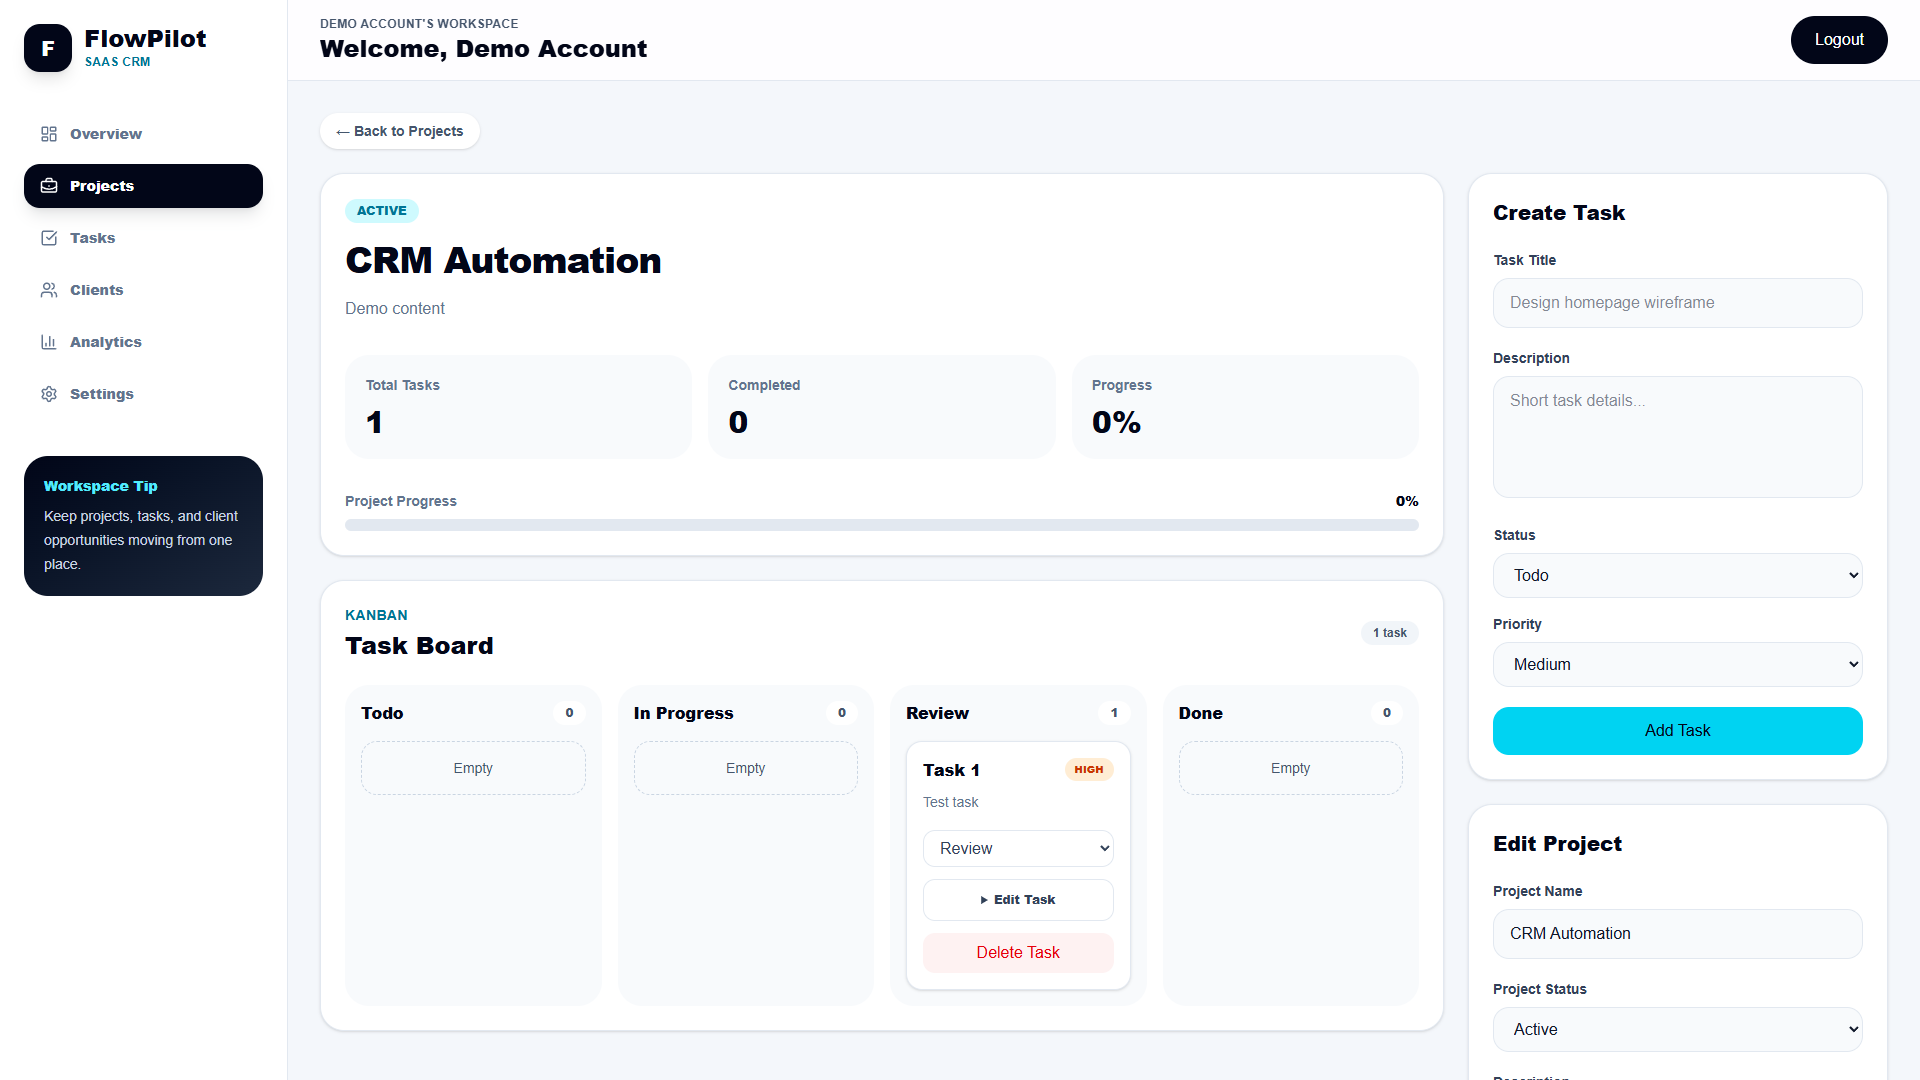
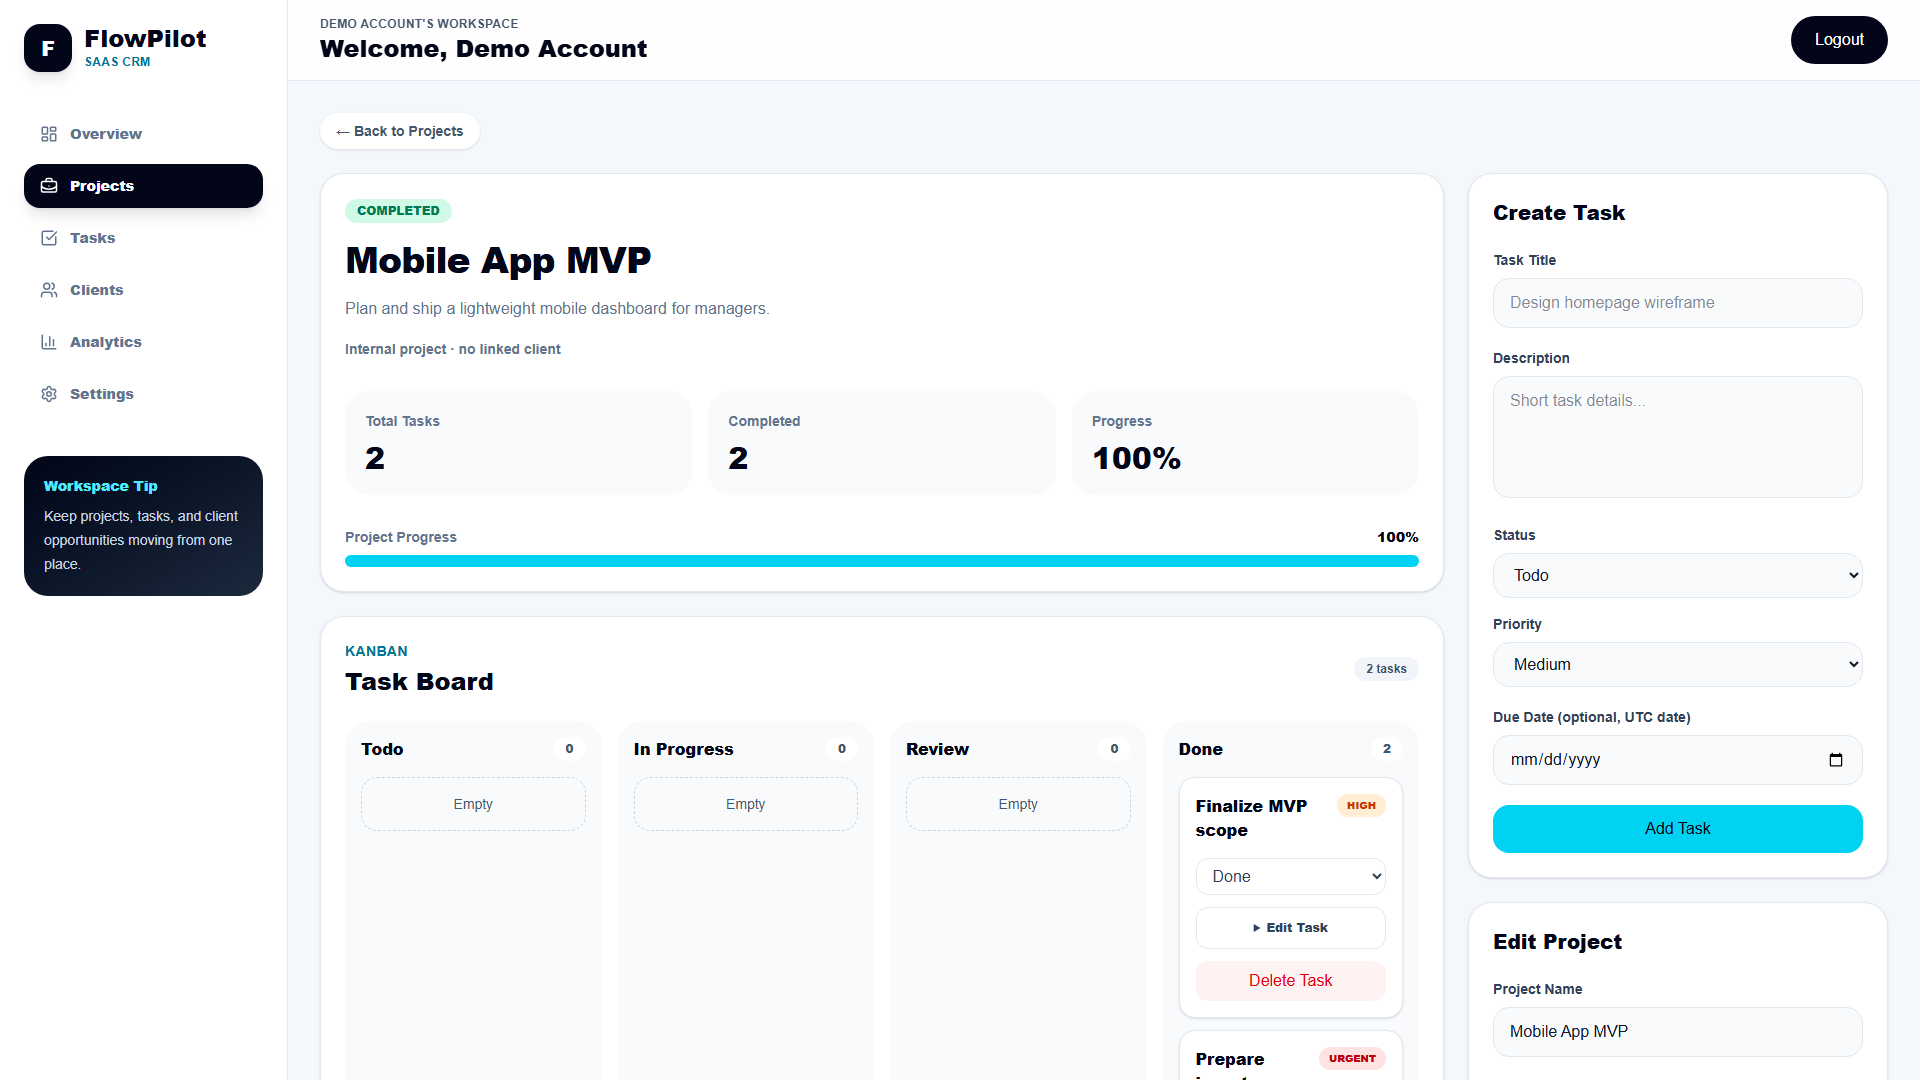
Refresh live release evidence

diff --git a/FIX_REPORT.md b/FIX_REPORT.md
@@ -6,23 +6,23 @@ This report separates implementation, testing, and deployment. `PASS` means the 
 
 | ID | Implemented? | Tested? | Deployed? | Files / commit | Actual evidence | Remaining blocker |
 |---|---|---|---|---|---|---|
-| F01 client-linked projects | Yes | PASS, scoped | Pending | `prisma/schema.prisma`, project/client pages and actions | Browser workflow created a client-linked project through Won conversion; project details displayed the client. Project create/edit selectors are populated only from the current workspace. Empty relation remains valid; client deletion unlinks projects before deleting client data. | Forged cross-workspace Server Action payload was source-reviewed and selector isolation was tested, but no external DAST/fuzzer certification. |
-| F02 Won deal to project | Yes | PASS, scoped | Pending | `DealConversion`, client actions/pages | Unique `clientId` and `projectId` conversion records plus a transaction provide durable idempotency. Workflow retained `$1,234.56`, created one linked project, and exposed the existing-project control afterward. | Concurrent production load test not run; MongoDB replica set is mandatory. |
-| F03 follow-up/due dates | Yes | PASS | Pending | schema, validators, client/project/task UI | Workflow created/reloaded a `2026-11-01` follow-up and a past due task, observed overdue, then observed completed-not-overdue. Unit check confirmed date-only storage at `00:00:00 UTC`; fields support blank clearing. | Email reminders are intentionally absent. Full global timezone matrix beyond UTC boundary logic is not a browser suite. |
-| F04 notes/activity | Yes | PASS, scoped | Pending | `ClientNote`, `ClientActivity`, client detail/actions | Unicode multiline note persisted with authenticated author; status and conversion events are server-generated and ordered by timestamp/id. Unique request/event keys and conditional status updates prevent ordinary retry duplicates. React escapes note text. | Forged-author payload is impossible in shipped form/action API but no external penetration test. |
-| F05 search/filters | Yes | PASS, scoped | Pending | client/project/task pages | Clients search name/company/email and filter status; projects search name and filter status/client/internal; tasks search title and filter project/status/priority/overdue. Workflow combined client search+Won filter and reset/no-results states are present. Inputs are bounded and every query carries workspace scope. | Performance tuning for very large workspaces is buyer-specific. |
-| F06 CSV export | Yes | PASS | Pending | `/api/export/[resource]`, `src/lib/csv.ts` | Authenticated filtered exports cover clients/projects/tasks, cap at 5,000, emit UTF-8 BOM, quote commas/quotes/newlines, and prefix formula-like values. Workflow verified Unicode and `=2+2` safety; second-workspace export excluded the first workspace. | Spreadsheet behavior can vary by vendor; no XLSX format is shipped. |
-| AUTH | Yes | PASS, scoped | Pending | auth configuration and isolation audit | Fresh sessions succeeded; anonymous protected-route access redirected to login; logout/protected-route behavior remains covered by the UI path. Password recovery is not advertised or shipped. | Artificial JWT expiry/time-travel was not tested. |
-| ISOLATION | Yes | PASS, scoped | Pending | current-user helper, scoped actions/pages/export, isolation audit | Two temporary accounts/workspaces verified own access, cross-workspace client/project 404s, export exclusion, link-selector exclusion, zero-row scoped write, and nested task exclusion. All synthetic records were removed. | Opaque Server Action IDs were not externally fuzzed; this is not a penetration test. |
-| RATE LIMITS | Yes | PASS, controlled | Pending | `RateLimit`, `rate-limit.ts`, login/register handlers | Atomic MongoDB `findAndModify` test observed counts `1,2,3` and rejection threshold metadata. Login uses hashed IP+email; registration uses hashed IP and returns `429` with `Retry-After`. | Edge/WAF controls remain recommended; sustained production attack testing was intentionally not run. |
-| FAILURES | Partial | PASS for validation/retry cases; otherwise NOT TESTED | Pending | validators, pending buttons, actions | Invalid money/date/ID paths, duplicate note/conversion keys, repeated priority save, and rate-limit rejection have automated coverage. | Controlled database outage, transaction rollback injection, and every-form slow-network testing remain open. |
-| RESPONSIVE | Yes | PASS, automated | Pending | responsive UI and audit script | No horizontal overflow across 9 routes at 360, 390, 768, 1024, 1280, 1366, and 1440 px: 63/63 combinations. Workflow also ran at 1366 px. | Physical touch devices, Safari/Firefox, and a formal 200% browser-zoom/manual usability certification remain open. |
-| ACCESSIBILITY | Partial | PASS, automated scope | Pending | UI semantics and accessibility audit | 135/135 checks passed for titles, language, headings, landmarks, names, labels, IDs, image alternatives, noindex, basic focus visibility, and mobile drawer focus/Escape. | Axe/contrast tooling, screen reader, full keyboard-only, and manual 200% zoom remain open. |
-| INSTALL | Yes | PASS, local | Pending | lockfile, setup guide, Dockerfile | Prisma validation/generation, schema sync, production build, standalone preparation/start, and authenticated workflow ran against a real MongoDB replica-set deployment. | Independent buyer-machine walkthrough not performed. |
+| F01 client-linked projects | Yes | PASS, scoped | Yes (`9c227f7`) | `prisma/schema.prisma`, project/client pages and actions | Browser workflow created a client-linked project through Won conversion; project details displayed the client. Project create/edit selectors are populated only from the current workspace. Empty relation remains valid; client deletion unlinks projects before deleting client data. | Forged cross-workspace Server Action payload was source-reviewed and selector isolation was tested, but no external DAST/fuzzer certification. |
+| F02 Won deal to project | Yes | PASS, scoped | Yes (`9c227f7`) | `DealConversion`, client actions/pages | Unique `clientId` and `projectId` conversion records plus a transaction provide durable idempotency. Workflow retained `$1,234.56`, created one linked project, and exposed the existing-project control afterward. | Concurrent production load test not run; MongoDB replica set is mandatory. |
+| F03 follow-up/due dates | Yes | PASS | Yes (`9c227f7`) | schema, validators, client/project/task UI | Workflow created/reloaded a `2026-11-01` follow-up and a past due task, observed overdue, then observed completed-not-overdue. Unit check confirmed date-only storage at `00:00:00 UTC`; fields support blank clearing. | Email reminders are intentionally absent. Full global timezone matrix beyond UTC boundary logic is not a browser suite. |
+| F04 notes/activity | Yes | PASS, scoped | Yes (`9c227f7`) | `ClientNote`, `ClientActivity`, client detail/actions | Unicode multiline note persisted with authenticated author; status and conversion events are server-generated and ordered by timestamp/id. Unique request/event keys and conditional status updates prevent ordinary retry duplicates. React escapes note text. | Forged-author payload is impossible in shipped form/action API but no external penetration test. |
+| F05 search/filters | Yes | PASS, scoped | Yes (`9c227f7`) | client/project/task pages | Clients search name/company/email and filter status; projects search name and filter status/client/internal; tasks search title and filter project/status/priority/overdue. Workflow combined client search+Won filter and reset/no-results states are present. Inputs are bounded and every query carries workspace scope. | Performance tuning for very large workspaces is buyer-specific. |
+| F06 CSV export | Yes | PASS | Yes (`9c227f7`) | `/api/export/[resource]`, `src/lib/csv.ts` | Authenticated filtered exports cover clients/projects/tasks, cap at 5,000, emit UTF-8 BOM, quote commas/quotes/newlines, and prefix formula-like values. Workflow verified Unicode and `=2+2` safety; second-workspace export excluded the first workspace. | Spreadsheet behavior can vary by vendor; no XLSX format is shipped. |
+| AUTH | Yes | PASS, scoped | Yes (`9c227f7`) | auth configuration and isolation audit | Fresh sessions succeeded; anonymous protected-route access redirected to login; logout/protected-route behavior remains covered by the UI path. Password recovery is not advertised or shipped. | Artificial JWT expiry/time-travel was not tested. |
+| ISOLATION | Yes | PASS, scoped | Yes (`9c227f7`) | current-user helper, scoped actions/pages/export, isolation audit | Two temporary accounts/workspaces verified own access, cross-workspace client/project 404s, export exclusion, link-selector exclusion, zero-row scoped write, and nested task exclusion. All synthetic records were removed. | Opaque Server Action IDs were not externally fuzzed; this is not a penetration test. |
+| RATE LIMITS | Yes | PASS, controlled | Yes (`9c227f7`) | `RateLimit`, `rate-limit.ts`, login/register handlers | Atomic MongoDB `findAndModify` test observed counts `1,2,3` and rejection threshold metadata. Login uses hashed IP+email; registration uses hashed IP and returns `429` with `Retry-After`. | Edge/WAF controls remain recommended; sustained production attack testing was intentionally not run. |
+| FAILURES | Partial | PASS for validation/retry cases; otherwise NOT TESTED | Yes (`9c227f7`) | validators, pending buttons, actions | Invalid money/date/ID paths, duplicate note/conversion keys, repeated priority save, and rate-limit rejection have automated coverage. | Controlled database outage, transaction rollback injection, and every-form slow-network testing remain open. |
+| RESPONSIVE | Yes | PASS, automated | Yes (`9c227f7`) | responsive UI and audit script | No horizontal overflow across 9 routes at 360, 390, 768, 1024, 1280, 1366, and 1440 px: 63/63 combinations. Workflow also ran at 1366 px. | Physical touch devices, Safari/Firefox, and a formal 200% browser-zoom/manual usability certification remain open. |
+| ACCESSIBILITY | Partial | PASS, automated scope | Yes (`9c227f7`) | UI semantics and accessibility audit | 135/135 checks passed for titles, language, headings, landmarks, names, labels, IDs, image alternatives, noindex, basic focus visibility, and mobile drawer focus/Escape. | Axe/contrast tooling, screen reader, full keyboard-only, and manual 200% zoom remain open. |
+| INSTALL | Yes | PASS, local | Yes (`9c227f7`) | lockfile, setup guide, Dockerfile | Prisma validation/generation, schema sync, production build, standalone preparation/start, and authenticated workflow ran against a real MongoDB replica-set deployment. | Independent buyer-machine walkthrough not performed. |
 | DOCKER | Documented | BLOCKED | No | `Dockerfile`, `HowToSetup.md` | Route and schema-sync commands are documented. | Docker CLI is unavailable on this machine; no build/run claim is made. |
-| DATABASE | Yes | PASS, scoped | Pending | schema and setup docs | `npx prisma db push` applied four new collections and required indexes without deleting or rewriting existing records. Backup/restore and replica-set requirements are documented. | Backup restoration is an operator responsibility and was not exercised. |
-| SECRETS/DEPENDENCIES | Partial | PASS for current dependency audit; partial otherwise | Pending | `.env.example`, security and third-party docs | Delivery excludes `.env`; both full and production-only `npm audit` reported zero known vulnerabilities on 2026-10-26 after updating Zod to 4.6.7. Direct dependencies remain pinned. | Independent full-history secret scan and legal/license review remain owner actions. |
-| DEMO/BUYER MEDIA | In progress | NOT YET FINAL | Pending | seed, README, setup, listing, media scripts | Guarded seed now creates linked clients/projects plus dated synthetic records while retaining the sample-data disclosure. | Screenshots and release ZIP must be refreshed after deployment. |
+| DATABASE | Yes | PASS, scoped | Yes (`9c227f7`) | schema and setup docs | `npx prisma db push` applied four new collections and required indexes without deleting or rewriting existing records. Backup/restore and replica-set requirements are documented. | Backup restoration is an operator responsibility and was not exercised. |
+| SECRETS/DEPENDENCIES | Partial | PASS for current dependency audit; partial otherwise | Yes (`9c227f7`) | `.env.example`, security and third-party docs | Delivery excludes `.env`; both full and production-only `npm audit` reported zero known vulnerabilities on 2026-10-26 after updating Zod to 4.6.7. Direct dependencies remain pinned. | Independent full-history secret scan and legal/license review remain owner actions. |
+| DEMO/BUYER MEDIA | Yes | PASS | Yes (`9c227f7`) | seed, README, setup, listing, media scripts | Guarded seed creates linked clients/projects plus dated synthetic records; nine marketplace screenshots were refreshed from the live deployment. | Release ZIP is generated locally after the final media commit. |
 
 ## Commands and observed outcomes
 

diff --git a/AUDIT_REPORT.md b/AUDIT_REPORT.md
@@ -4,7 +4,7 @@ Audit snapshot: 2026-10-26
 
 ## Summary
 
-FlowPilot 1.3 implements the scoped agency workflow: client/project linking, idempotent Won conversion, follow-up and task dates, client notes/activity, combined search/filter controls, safe filtered CSV export, and shared authentication rate limits. Local production-build, business-workflow, two-account isolation, responsive, accessibility, schema-sync, and utility tests passed within the scopes below. Deployment and refreshed marketplace media are recorded only after the final commit reaches Vercel.
+FlowPilot 1.3 implements the scoped agency workflow: client/project linking, idempotent Won conversion, follow-up and task dates, client notes/activity, combined search/filter controls, safe filtered CSV export, and shared authentication rate limits. Local production-build, schema-sync, and utility checks passed; business-workflow, two-account isolation, responsive, and accessibility checks also passed against the Vercel deployment of commit `9c227f7`. Nine marketplace screenshots were refreshed from that live build.
 
 ## Verification status
 
